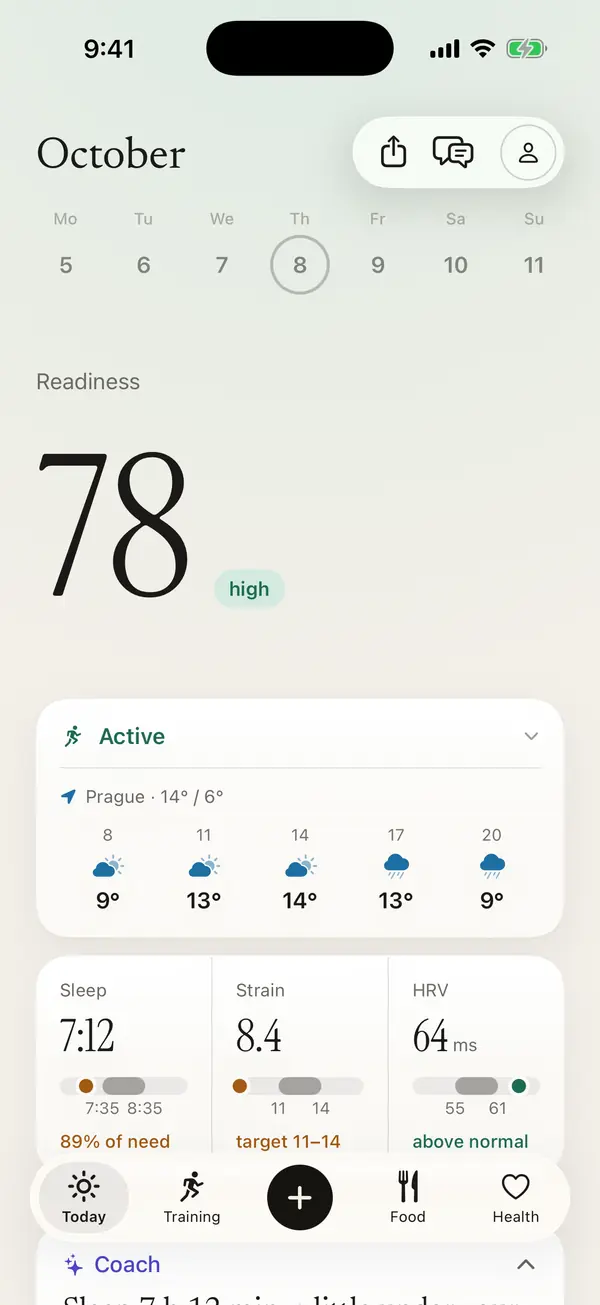
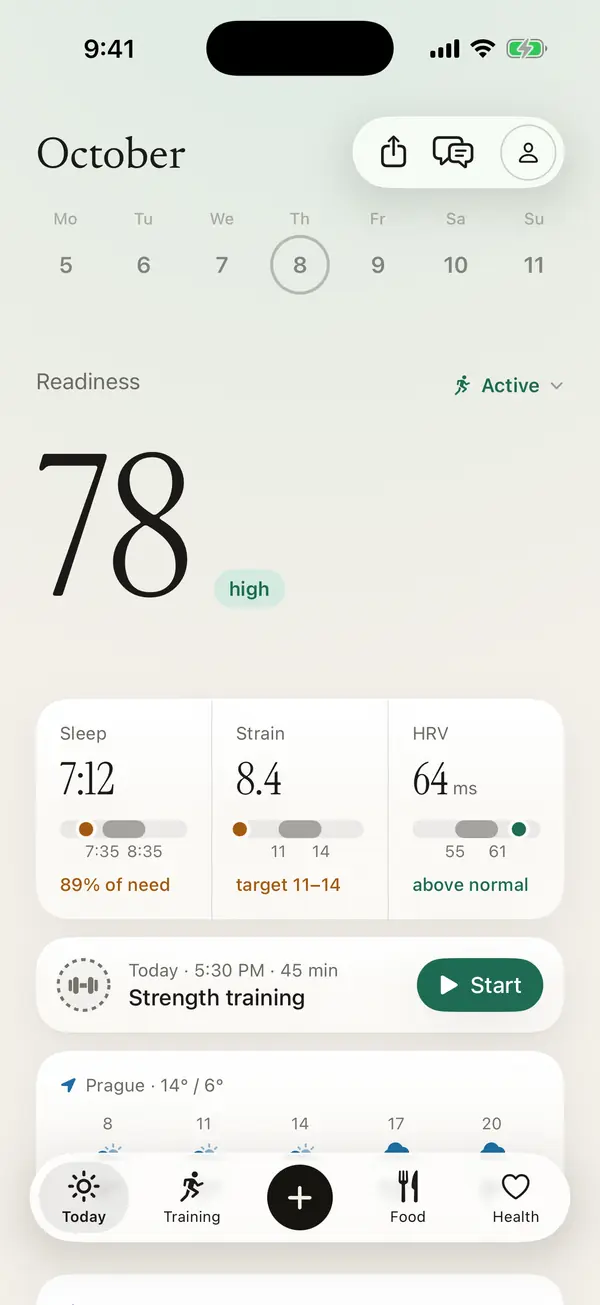
Site: Today screenshots and share image after the one coach card and Today C2 (#723)
* Today: one coach card for the check-in, review, week check, threshold and plan

The five cards the coach could stack on Today (check-in, review after a
workout, week check, threshold test, the plan's proposal) are one card
"Coach · N things today": the most important thing open at the top, the
others as rows. A tap opens a row in the card with the same texts and
buttons; an answered thing confirms for a moment and goes, the next moves
up. A new FTP still changes only with Save.

Claude-Session: https://claude.ai/code/session_01GJwnseBuE15dugVPyHCfXq

* Today C2: status beside readiness, today's workout with Start, the activity of the day only when it differs

- The athlete's status (icon, colour, "Sick · up to …", an injury's note
  cut short) moves from the weather card's first row to the right of
  "Readiness"; a tap opens the same Athlete status sheet.
- Under Sleep / Strain / HRV a card with today's planned workouts: "Today ·
  5:30 PM · 45 min", the name, and Start for the gym (Training mode).
- The activity of the day hides when it only confirms today's plan; when it
  suggests something else it shows under the workout with Swap (the pick
  in, the planned workout out) and Keep plan. Without a plan it stays in
  full in the workout's place. The weather card follows, without the status.
- Site: the hero phone's description follows the new Today.

Claude-Session: https://claude.ai/code/session_01GJwnseBuE15dugVPyHCfXq
[…]

diff --git a/src/site-pages.js b/src/site-pages.js
@@ -670,7 +670,7 @@ addEventListener('keydown',function(e){if(!card.classList.contains('on'))return;
 
 // The share image (link previews on X, Facebook, LinkedIn, Slack, iMessage). The networks keep an image
 // for days by its URL, so ?v= goes up whenever og-en.jpg is rendered again (a JPEG: a tenth of the PNG's size).
-const SHARE_IMAGE = '/site/og-en.jpg?v=11';
+const SHARE_IMAGE = '/site/og-en.jpg?v=12';
 const SHARE_IMAGE_ALT = 'Aurin: A coach that knows how you slept. The Today screen with readiness 78.';
 
 function sitePage({title, description, lang, origin, path, body, czech=false, index=true, jsonLd=null, status=200}) {
